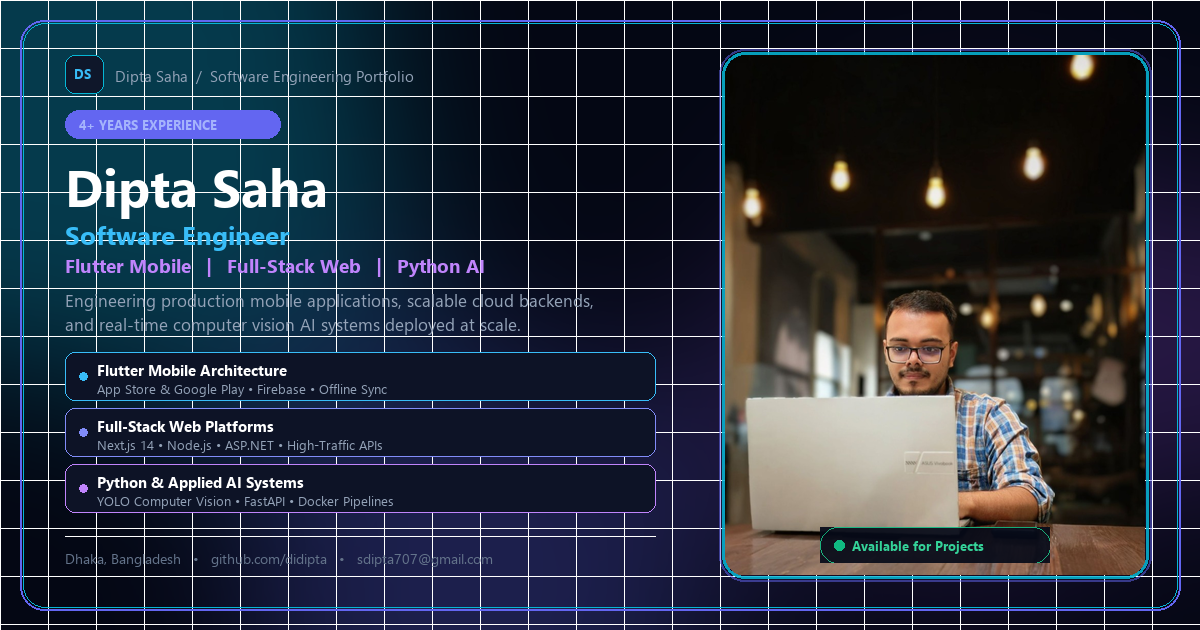
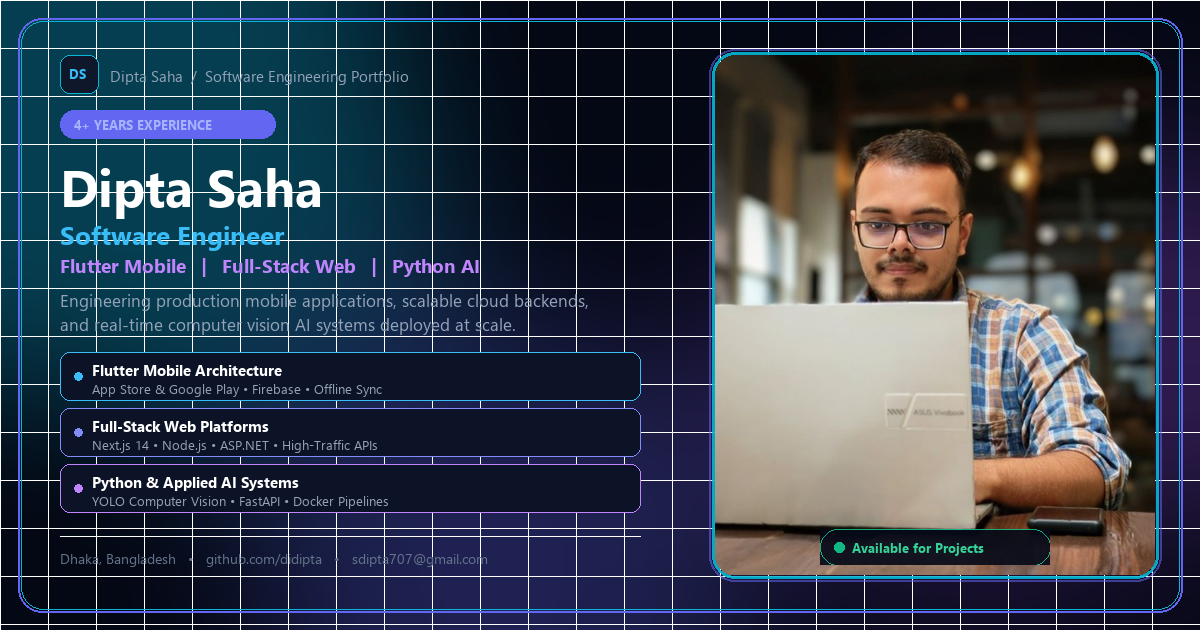
update meta

diff --git a/Dipta Saha – Portfolio.html b/Dipta Saha – Portfolio.html
@@ -46,12 +46,12 @@
   <meta property="og:image:alt" content="Dipta Saha — Software Engineer Portfolio">
   <meta property="og:locale" content="en_US">
 
-  <!-- Additional Image Fallbacks for WhatsApp, Google & Crawlers -->
+  <!-- Fallbacks: Root domain, relative path & PNG for WhatsApp/Discord/Slack -->
+  <meta property="og:image" content="./og-image.jpg">
+  <meta property="og:image" content="https://didipta.github.io/og-image.jpg">
   <meta property="og:image" content="https://didipta.github.io/Portfolio-website-2026/og-image.png">
-  <meta property="og:image:type" content="image/png">
-  <meta property="og:image:width" content="1200">
-  <meta property="og:image:height" content="630">
   <link rel="image_src" href="https://didipta.github.io/Portfolio-website-2026/og-image.jpg">
+  <link rel="image_src" href="./og-image.jpg">
   <meta itemprop="image" content="https://didipta.github.io/Portfolio-website-2026/og-image.jpg">
 
   <!-- Twitter / X Cards -->

diff --git a/index.html b/index.html
@@ -46,12 +46,12 @@
   <meta property="og:image:alt" content="Dipta Saha — Software Engineer Portfolio">
   <meta property="og:locale" content="en_US">
 
-  <!-- Additional Image Fallbacks for WhatsApp, Google & Crawlers -->
+  <!-- Fallbacks: Root domain, relative path & PNG for WhatsApp/Discord/Slack -->
+  <meta property="og:image" content="./og-image.jpg">
+  <meta property="og:image" content="https://didipta.github.io/og-image.jpg">
   <meta property="og:image" content="https://didipta.github.io/Portfolio-website-2026/og-image.png">
-  <meta property="og:image:type" content="image/png">
-  <meta property="og:image:width" content="1200">
-  <meta property="og:image:height" content="630">
   <link rel="image_src" href="https://didipta.github.io/Portfolio-website-2026/og-image.jpg">
+  <link rel="image_src" href="./og-image.jpg">
   <meta itemprop="image" content="https://didipta.github.io/Portfolio-website-2026/og-image.jpg">
 
   <!-- Twitter / X Cards -->

diff --git a/generate_og.py b/generate_og.py
@@ -4,7 +4,7 @@ from PIL import Image, ImageDraw, ImageFont, ImageFilter
 def create_og_image():
     W, H = 1200, 630
     
-    # 1. Base dark obsidian canvas
+    # Base dark obsidian canvas
     img = Image.new("RGB", (W, H), "#040714")
     
     # Ambient glows
@@ -12,27 +12,26 @@ def create_og_image():
     glow_draw = ImageDraw.Draw(glow)
     
     # Cyan glow (top left)
-    glow_draw.ellipse((-100, -100, 450, 450), fill=(6, 182, 212, 75))
+    glow_draw.ellipse((-100, -100, 480, 480), fill=(6, 182, 212, 80))
     # Indigo glow (bottom center/left)
-    glow_draw.ellipse((200, 300, 750, 800), fill=(99, 102, 241, 65))
-    # Purple/Violet glow (behind portrait)
-    glow_draw.ellipse((700, 80, 1250, 600), fill=(168, 85, 247, 55))
+    glow_draw.ellipse((220, 280, 780, 800), fill=(99, 102, 241, 70))
+    # Purple glow (behind photo)
+    glow_draw.ellipse((720, 60, 1280, 620), fill=(168, 85, 247, 65))
     
-    glow = glow.filter(ImageFilter.GaussianBlur(90))
+    glow = glow.filter(ImageFilter.GaussianBlur(85))
     img.paste(glow, (0, 0), glow)
 
     draw = ImageDraw.Draw(img)
 
-    # Very subtle, elegant background grid
+    # Ultra-subtle grid
     for x in range(0, W, 48):
-        draw.line([(x, 0), (x, H)], fill=(255, 255, 255, 4), width=1)
+        draw.line([(x, 0), (x, H)], fill=(255, 255, 255, 5), width=1)
     for y in range(0, H, 48):
-        draw.line([(0, y), (W, y)], fill=(255, 255, 255, 4), width=1)
+        draw.line([(0, y), (W, y)], fill=(255, 255, 255, 5), width=1)
 
     # Sleek Outer border
-    draw.rounded_rectangle([(20, 20), (W - 20, H - 20)], radius=24, outline=(99, 102, 241, 140), width=2)
-    # Inner subtle glow outline
-    draw.rounded_rectangle([(23, 23), (W - 23, H - 23)], radius=22, outline=(6, 182, 212, 60), width=1)
+    draw.rounded_rectangle([(18, 18), (W - 18, H - 18)], radius=24, outline=(99, 102, 241, 150), width=2)
+    draw.rounded_rectangle([(21, 21), (W - 21, H - 21)], radius=22, outline=(6, 182, 212, 70), width=1)
 
     # Fonts
     font_dir = "C:/Windows/Fonts"
@@ -46,23 +45,28 @@ def create_og_image():
     f_pill_sub = ImageFont.truetype(f"{font_dir}/segoeui.ttf", 13)
     f_meta = ImageFont.truetype(f"{font_dir}/segoeui.ttf", 14)
 
-    # 2. Right Side: Dipta Saha Portrait Photo
+    # 2. Right Side: Dipta Saha Portrait Photo (Enlarged & Focused on Face + Laptop)
     photo_path = "e:/my cv 2025/Portfolio-website-2026/dipta-saha.jpg"
     if os.path.exists(photo_path):
         portrait = Image.open(photo_path).convert("RGBA")
-        pw, ph = 420, 520
-        src_w, src_h = portrait.size
-        target_ratio = pw / ph
-        src_ratio = src_w / src_h
+        src_w, src_h = portrait.size  # 819 x 1024
 
-        if src_ratio > target_ratio:
-            new_w = int(src_h * target_ratio)
-            left = (src_w - new_w) // 2
-            portrait = portrait.crop((left, 0, left + new_w, src_h))
-        else:
-            new_h = int(src_w / target_ratio)
-            portrait = portrait.crop((0, 0, src_w, new_h))
+        # Crop to center Dipta's face (top: ~380) and laptop (bottom: ~980)
+        crop_top = 370
+        crop_bottom = 990
+        crop_h = crop_bottom - crop_top
+        pw, ph = 440, 520
+        target_ratio = pw / ph  # 440 / 520 = 0.846
 
+        # Determine width from target_ratio
+        crop_w = int(crop_h * target_ratio)
+        if crop_w > src_w:
+            crop_w = src_w
+            crop_h = int(crop_w / target_ratio)
+            crop_top = max(0, 370 - (crop_h - (990 - 370)) // 2)
+
+        crop_left = (src_w - crop_w) // 2
+        portrait = portrait.crop((crop_left, crop_top, crop_left + crop_w, crop_top + crop_h))
         portrait = portrait.resize((pw, ph), Image.Resampling.LANCZOS)
 
         # Rounded mask
@@ -70,20 +74,20 @@ def create_og_image():
         mask_draw = ImageDraw.Draw(mask)
         mask_draw.rounded_rectangle([(0, 0), (pw, ph)], radius=20, fill=255)
 
-        px, py = 725, 55
+        px, py = 715, 55
 
         # Glowing Neon Double Border around portrait
         photo_glow = Image.new("RGBA", (W, H), (0, 0, 0, 0))
         pg_draw = ImageDraw.Draw(photo_glow)
-        pg_draw.rounded_rectangle([(px - 3, py - 3), (px + pw + 3, py + ph + 3)], radius=23, outline=(6, 182, 212, 220), width=3)
-        pg_draw.rounded_rectangle([(px - 6, py - 6), (px + pw + 6, py + ph + 6)], radius=26, outline=(99, 102, 241, 130), width=2)
+        pg_draw.rounded_rectangle([(px - 3, py - 3), (px + pw + 3, py + ph + 3)], radius=23, outline=(6, 182, 212, 230), width=3)
+        pg_draw.rounded_rectangle([(px - 6, py - 6), (px + pw + 6, py + ph + 6)], radius=26, outline=(99, 102, 241, 140), width=2)
         img.paste(photo_glow, (0, 0), photo_glow)
 
         img.paste(portrait, (px, py), mask)
 
         # Floating Status Badge at bottom of portrait
         badge_w, badge_h = 230, 36
-        bx, by = px + (pw - badge_w) // 2, py + ph - 48
+        bx, by = px + (pw - badge_w) // 2, py + ph - 46
         badge_bg = Image.new("RGBA", (badge_w, badge_h), (6, 10, 24, 235))
         b_draw = ImageDraw.Draw(badge_bg)
         b_draw.rounded_rectangle([(0, 0), (badge_w, badge_h)], radius=18, outline=(16, 185, 129, 230), width=1)
@@ -92,7 +96,7 @@ def create_og_image():
         img.paste(badge_bg, (bx, by), badge_bg)
 
     # 3. Left Side Content
-    lx = 65
+    lx = 60
 
     # Top Brand Header Pill
     draw.rounded_rectangle([(lx, 55), (lx + 38, 93)], radius=10, fill=(15, 23, 42), outline=(6, 182, 212), width=1)
@@ -116,7 +120,7 @@ def create_og_image():
     draw.text((lx, 288), "Engineering production mobile applications, scalable cloud backends,", fill="#94A3B8", font=f_desc)
     draw.text((lx, 312), "and real-time computer vision AI systems deployed at scale.", fill="#94A3B8", font=f_desc)
 
-    # 3 Pillar Feature Cards (Left side)
+    # 3 Pillar Feature Cards
     cards = [
         ("Flutter Mobile Architecture", "App Store & Google Play • Firebase • Offline Sync", (56, 189, 248)),
         ("Full-Stack Web Platforms", "Next.js 14 • Node.js • ASP.NET • High-Traffic APIs", (129, 140, 248)),
@@ -125,15 +129,14 @@ def create_og_image():
 
     cy = 352
     for title, subtitle, color in cards:
-        draw.rounded_rectangle([(lx, cy), (lx + 590, cy + 48)], radius=10, fill=(13, 19, 38, 220), outline=color, width=1)
-        # Left color indicator dot
+        draw.rounded_rectangle([(lx, cy), (lx + 580, cy + 48)], radius=10, fill=(13, 19, 38, 220), outline=color, width=1)
         draw.ellipse([(lx + 14, cy + 20), (lx + 22, cy + 28)], fill=color)
         draw.text((lx + 32, cy + 7), title, fill="#FFFFFF", font=f_pill_title)
         draw.text((lx + 32, cy + 27), subtitle, fill="#94A3B8", font=f_pill_sub)
         cy += 56
 
     # Bottom Contact Bar
-    draw.line([(lx, 536), (lx + 590, 536)], fill=(255, 255, 255, 30), width=1)
+    draw.line([(lx, 536), (lx + 580, 536)], fill=(255, 255, 255, 30), width=1)
     draw.text((lx, 548), "Dhaka, Bangladesh   •   github.com/didipta   •   sdipta707@gmail.com", fill="#64748B", font=f_meta)
 
     # Export
@@ -144,7 +147,7 @@ def create_og_image():
     img.save(out_png, "PNG", optimize=True)
     img.save(out_jpg, "JPEG", quality=95, optimize=True)
     img.save(out_preview, "JPEG", quality=95, optimize=True)
-    print("Regenerated:", out_png, out_jpg)
+    print("Regenerated successfully:", out_png, out_jpg)
 
 if __name__ == "__main__":
     create_og_image()
